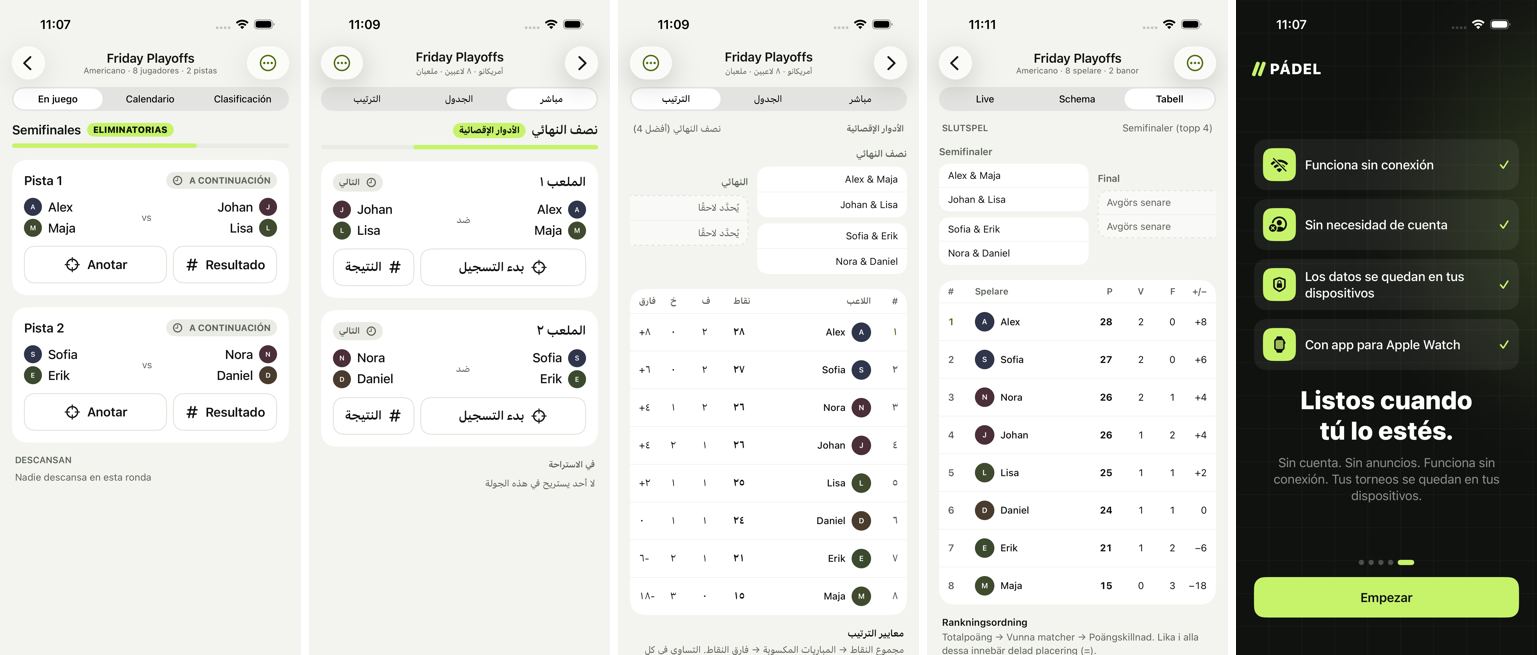
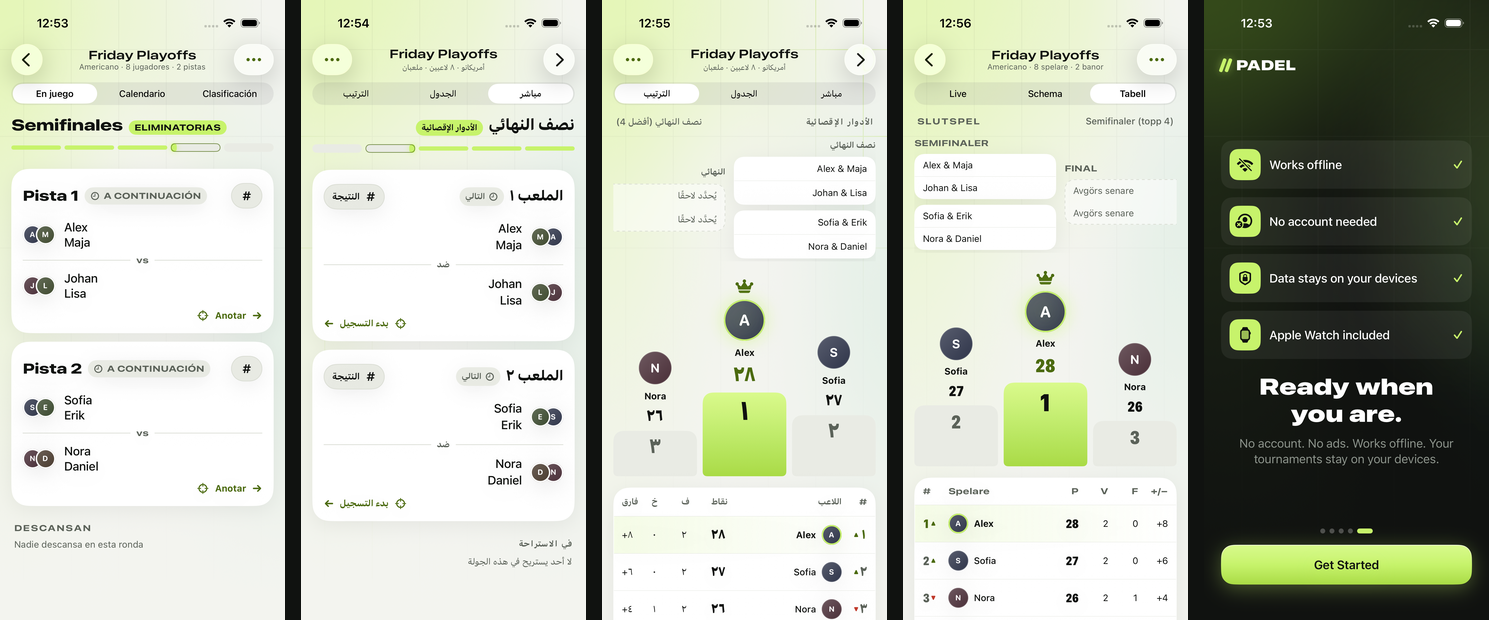
Docs: Night Court iPhone screenshots from CI run 38986071537; status

diff --git a/PROJECT_STATUS.md b/PROJECT_STATUS.md
@@ -33,10 +33,10 @@ Everything else was built in this branch.
 | watchOS app + complication build | ✅ | — | CI: `BUILD SUCCEEDED`, watch app embedded in iPhone app |
 | iPhone UI tests | ✅ | ✅ 8 XCUITests | CI run #28 on an iPhone 16 Pro simulator: 8 passed, 0 failed (journey, games & sets scoring + set entry, Live Activity, validation, accessibility, onboarding, onboarding skip, playoff bracket); journey re-run in dark mode: passed |
 | Onboarding | ✅ | ✅ 2 UI tests | Screenshots of all five pages reviewed (`docs/screenshots/onboarding.png`); Reduce Motion path implemented, not screenshot-tested |
-| Localization (19 languages) | ✅ | ✅ placeholder/plural/line-break checks for 18 translations; catalogs checked up to date | CI run #28: onboarding + playoff UI tests passed in Spanish, Arabic (right-to-left) and Swedish; screenshots reviewed (`docs/screenshots/languages.png`). Other languages build and are checked automatically but were not screenshot-reviewed |
+| Localization (19 languages) | ✅ | ✅ placeholder/plural/line-break checks for 18 translations; catalogs checked up to date; `scripts/check_ui_strings.py` flags UI literals missing from `keys.json` | CI run #28: onboarding + playoff UI tests passed in Spanish, Arabic (right-to-left) and Swedish; screenshots reviewed (`docs/screenshots/languages.png`). Other languages build and are checked automatically but were not screenshot-reviewed |
 | Live Activity | ✅ | ✅ starts + updates | Simulator: compact and expanded Dynamic Island and Lock Screen, live and decided, captured by `LiveActivityGalleryUITests` and reviewed (`docs/screenshots/live-activity.png`) |
 | Lock Screen +1/undo buttons | ✅ code | ❌ | Builds; tapping them needs a device (not automatable in CI) |
-| iPhone visuals | ✅ | screenshots | Reviewed CI screenshots in light and dark mode (`docs/screenshots/`) |
+| iPhone visuals ("Night Court" redesign) | ✅ | screenshots | CI run 38986071537: journey, sets, player stats, playoffs in light and dark mode, Spanish/Arabic/Swedish reviewed (`docs/screenshots/iphone-light.png`, `iphone-dark.png`, `languages.png`). Not verified on a device: 120 Hz smoothness of the living background, Liquid Glass on iOS 26 hardware, haptics, pull-to-undo feel, VoiceOver and Reduce Motion end to end |
 | Watch UI (Night Court redesign: court scoring, callouts, home pager, standings, podium, Always On) | ✅ | screenshots | `watch-screens` workflow: every demo scenario on Apple Watch Ultra 3 (49 mm) and Series 11 (42 mm) simulators, reviewed (`docs/screenshots/watch-redesign.png`, `watch-42mm.png`). Motion, Digital Crown undo and Double Tap need a device |
 | WatchConnectivity on real devices | ✅ code | ❌ | **Not verified** — needs paired hardware (see TESTING.md checklist) |
 | Player statistics across tournaments (leaderboard, player screen, history) | ✅ | ✅ 7 package tests (name matching, wins/podiums, playoff champion, team formats, partners/opponents, sets, withdrawals, empty); 1 UI test (leaderboard → player → tournament) | Linux + macOS CI |
